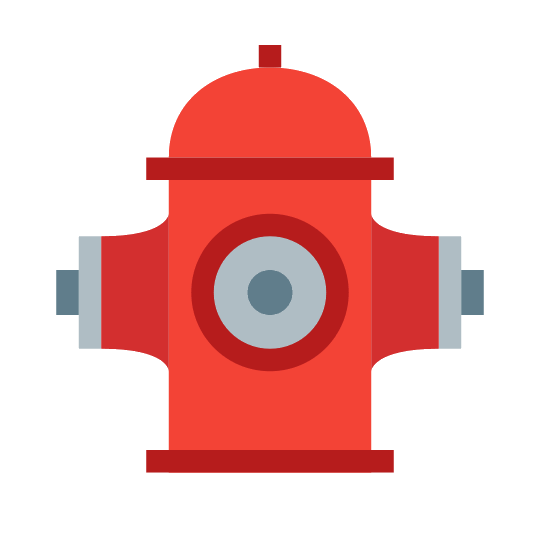
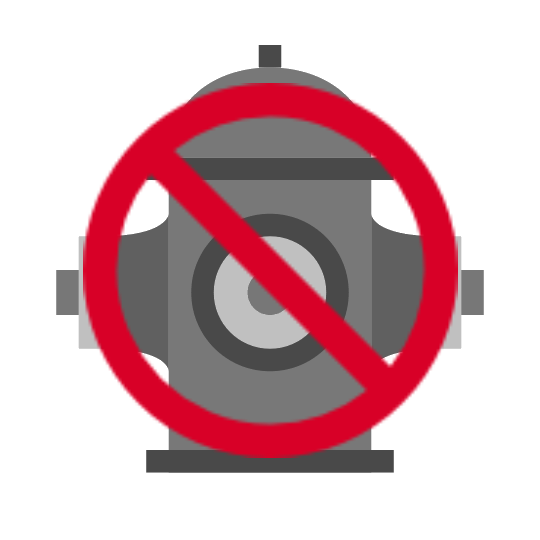
Auto stash before merge of "master" and "origin/master"

diff --git a/index.html b/index.html
@@ -18,7 +18,10 @@
         <div class="popup-content">
             <div>
                 <h4>Adresse de l'incendie: </h4>    
-                <h4 id="address-title"></h4>            
+                <h4 id="address-title"></h4>  
+                <div><br>
+                    <h5 id="current-fires">Incendies existants</h5>
+                </div>          
             </div>
             <div class="columns address-buttons">
                 <a href="javascript:void(0)" id="validate-address" class="popup-button column">Valider</a>
@@ -32,9 +35,6 @@
             <div>
                 <h4>Nouvelle adresse</h4>
                 <input id="newAdress" placeholder="Saisir la nouvelle adresse">
-                <div><br>
-                    <h5 id="current-fires">Incendies existants</h5>
-                </div>
             </div>
             <div class="columns address-buttons">
                 <a href="javascript:void(0)" id="validate-new-address" class="popup-button column">Valider</a>

diff --git a/js/address.js b/js/address.js
@@ -22,6 +22,7 @@ $(document).ready(function()
 
     $(".current-fire").click(function(event){
         setAddress($(event.target).text());
+        validateNewAddress();
     });
     var autocomplete;
     initAutocomplete();
@@ -62,7 +63,7 @@ $(document).ready(function()
         
         if($("#new-address-popup input").val().trim() != "")
         {
-            closePopUpAnimation($("#new-address-popup"));            
+            closePopUpAnimation($("#address-popup"));            
             _fire._address = $("#new-address-popup input").val();
             updateSideDisplay();
             showNewAddressNotif();    

diff --git a/js/locations.js b/js/locations.js
@@ -26,8 +26,8 @@ let locations = [{
         }
     },
     {
-        icon: 'assets/pics/eau.png',
-        type: 2, //bouche d'incendie
+        icon: 'assets/pics/eau-gris.png',
+        type: 3, //bouche d'incendie fermée
         pos: {
             lat: 43.620643,
             lng: 7.074611
